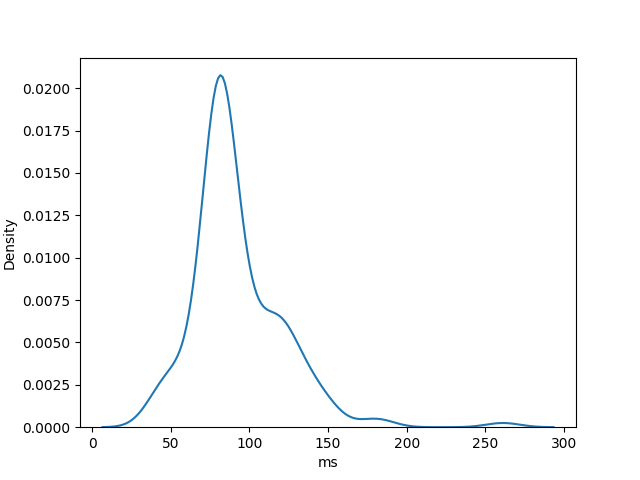
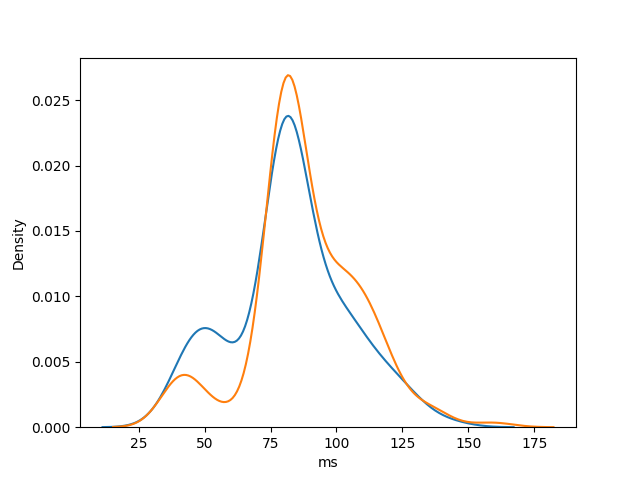
faster vm

diff --git a/plots/README.md b/plots/README.md
@@ -9,13 +9,13 @@
 
 | Key         | Value                        |
 | ----------- | ---------------------------- |
-| Completions | 129  |
-| Mean        | 42ms |
+| Completions | 130  |
+| Mean        | 39ms |
 | STD         | 41ms  |
 | Q0          | 0ms   |
 | Q50         | 3ms  |
-| Q95         | 86ms  |
-| Q100        | 114ms |
+| Q95         | 84ms  |
+| Q100        | 109ms |
 
 ![fig.img](https://raw.githubusercontent.com/ms-jpq/vim.bench/main/plots/c6426ab57e802fa08dcffe99fbfeac14.png)
 
@@ -28,13 +28,13 @@
 
 | Key         | Value                        |
 | ----------- | ---------------------------- |
-| Completions | 122  |
-| Mean        | 52ms |
+| Completions | 126  |
+| Mean        | 48ms |
 | STD         | 43ms  |
 | Q0          | 0ms   |
-| Q50         | 82ms  |
-| Q95         | 93ms  |
-| Q100        | 137ms |
+| Q50         | 81ms  |
+| Q95         | 94ms  |
+| Q100        | 154ms |
 
 ![fig.img](https://raw.githubusercontent.com/ms-jpq/vim.bench/main/plots/78cc3e419d8cc2f802e43d486be1fb4f.png)
 
@@ -47,13 +47,13 @@
 
 | Key         | Value                        |
 | ----------- | ---------------------------- |
-| Completions | 111  |
-| Mean        | 67ms |
-| STD         | 40ms  |
-| Q0          | 1ms   |
-| Q50         | 84ms  |
-| Q95         | 97ms  |
-| Q100        | 214ms |
+| Completions | 126  |
+| Mean        | 49ms |
+| STD         | 45ms  |
+| Q0          | 0ms   |
+| Q50         | 81ms  |
+| Q95         | 96ms  |
+| Q100        | 196ms |
 
 ![fig.img](https://raw.githubusercontent.com/ms-jpq/vim.bench/main/plots/58dd12a5c42471f3e2e23eec0c8f0800.png)
 
@@ -66,13 +66,13 @@
 
 | Key         | Value                        |
 | ----------- | ---------------------------- |
-| Completions | 139  |
-| Mean        | 90ms |
-| STD         | 80ms  |
-| Q0          | 1ms   |
-| Q50         | 83ms  |
-| Q95         | 250ms  |
-| Q100        | 353ms |
+| Completions | 129  |
+| Mean        | 72ms |
+| STD         | 64ms  |
+| Q0          | 0ms   |
+| Q50         | 81ms  |
+| Q95         | 193ms  |
+| Q100        | 344ms |
 
 ![fig.img](https://raw.githubusercontent.com/ms-jpq/vim.bench/main/plots/bc190c7ef28b48a0f7c19b0b8622951d.png)
 
@@ -85,13 +85,13 @@
 
 | Key         | Value                        |
 | ----------- | ---------------------------- |
-| Completions | 121  |
-| Mean        | 65ms |
-| STD         | 62ms  |
-| Q0          | 1ms   |
+| Completions | 132  |
+| Mean        | 68ms |
+| STD         | 69ms  |
+| Q0          | 0ms   |
 | Q50         | 82ms  |
-| Q95         | 93ms  |
-| Q100        | 331ms |
+| Q95         | 234ms  |
+| Q100        | 315ms |
 
 ![fig.img](https://raw.githubusercontent.com/ms-jpq/vim.bench/main/plots/21b9d82fd3a81ea3309e1d5ea8b54945.png)
 
@@ -104,13 +104,13 @@
 
 | Key         | Value                        |
 | ----------- | ---------------------------- |
-| Completions | 103  |
-| Mean        | 54ms |
+| Completions | 93  |
+| Mean        | 53ms |
 | STD         | 20ms  |
-| Q0          | 28ms   |
-| Q50         | 44ms  |
-| Q95         | 83ms  |
-| Q100        | 84ms |
+| Q0          | 29ms   |
+| Q50         | 43ms  |
+| Q95         | 81ms  |
+| Q100        | 82ms |
 
 ![fig.img](https://raw.githubusercontent.com/ms-jpq/vim.bench/main/plots/b5a0628258631a855e2b954dce9d61b7.png)
 
@@ -123,13 +123,13 @@
 
 | Key         | Value                        |
 | ----------- | ---------------------------- |
-| Completions | 128  |
-| Mean        | 84ms |
-| STD         | 23ms  |
-| Q0          | 39ms   |
+| Completions | 127  |
+| Mean        | 83ms |
+| STD         | 22ms  |
+| Q0          | 36ms   |
 | Q50         | 81ms  |
-| Q95         | 128ms  |
-| Q100        | 151ms |
+| Q95         | 119ms  |
+| Q100        | 142ms |
 
 ![fig.img](https://raw.githubusercontent.com/ms-jpq/vim.bench/main/plots/ad82d296990a5c5c2557f2e7af158e63.png)
 
@@ -142,13 +142,13 @@
 
 | Key         | Value                        |
 | ----------- | ---------------------------- |
-| Completions | 150  |
-| Mean        | 92ms |
-| STD         | 29ms  |
-| Q0          | 39ms   |
+| Completions | 153  |
+| Mean        | 88ms |
+| STD         | 21ms  |
+| Q0          | 38ms   |
 | Q50         | 81ms  |
-| Q95         | 141ms  |
-| Q100        | 261ms |
+| Q95         | 119ms  |
+| Q100        | 159ms |
 
 ![fig.img](https://raw.githubusercontent.com/ms-jpq/vim.bench/main/plots/675da12f4bded28a8a71ca93d7911b30.png)
 
@@ -161,13 +161,13 @@
 
 | Key         | Value                        |
 | ----------- | ---------------------------- |
-| Completions | 154  |
-| Mean        | 94ms |
-| STD         | 35ms  |
+| Completions | 151  |
+| Mean        | 90ms |
+| STD         | 25ms  |
 | Q0          | 37ms   |
-| Q50         | 83ms  |
-| Q95         | 159ms  |
-| Q100        | 291ms |
+| Q50         | 81ms  |
+| Q95         | 139ms  |
+| Q100        | 189ms |
 
 ![fig.img](https://raw.githubusercontent.com/ms-jpq/vim.bench/main/plots/77d454f58a6c11696a39a2b4a31ad13f.png)
 
@@ -180,13 +180,13 @@
 
 | Key         | Value                        |
 | ----------- | ---------------------------- |
-| Completions | 146  |
-| Mean        | 91ms |
-| STD         | 38ms  |
-| Q0          | 36ms   |
+| Completions | 145  |
+| Mean        | 88ms |
+| STD         | 40ms  |
+| Q0          | 33ms   |
 | Q50         | 81ms  |
-| Q95         | 152ms  |
-| Q100        | 353ms |
+| Q95         | 194ms  |
+| Q100        | 254ms |
 
 ![fig.img](https://raw.githubusercontent.com/ms-jpq/vim.bench/main/plots/3b523c9b210a67f020683294edb06b04.png)
 
